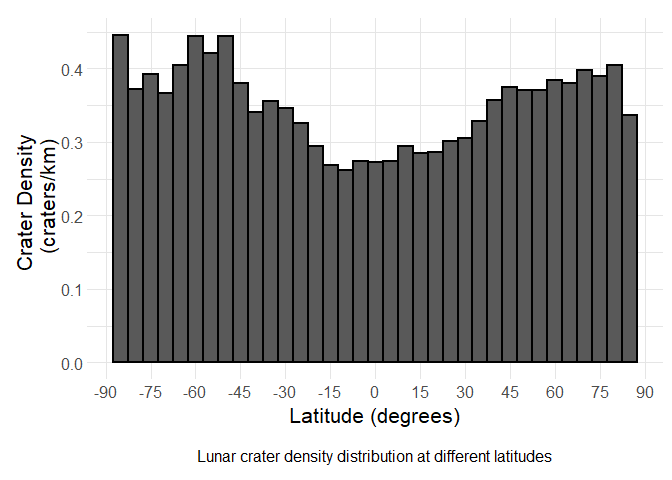
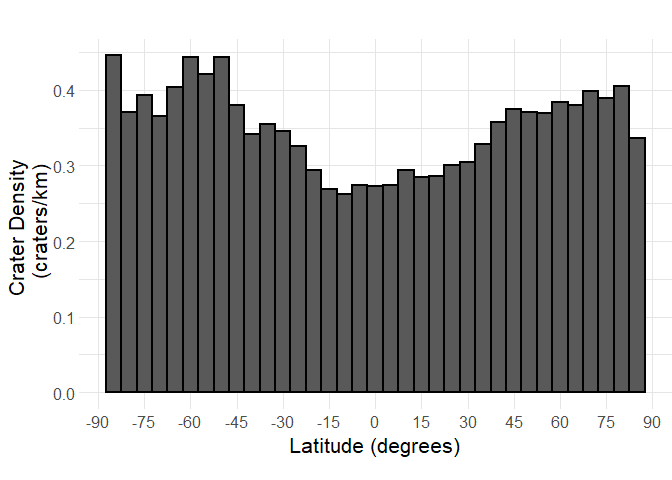
Removing one caption, fixing a typo

diff --git a/README.md b/README.md
@@ -131,7 +131,7 @@ df_craters <- read.csv("data/AstroStats_Robbins_Moon.csv") %>% # Load the datase
   ) %>% 
   mutate(
     intersection = geometry %>% st_intersects(map, sparse = TRUE),
-    # Interesection column is where each point intersects the map, if any
+    # Intersection column is where each point intersects the map, if any
     MARIA = (intersection %>% as.character()) != "integer(0)"
     # This is a bit chaotic. The intersection column is a funky object type, so
     # to compare it, I cast it to a character type. If the intersection is 0,
@@ -609,7 +609,7 @@ df_craters_hist %>%
   labs(
     x = "Latitude (degrees)",
     y = "Crater Density \n (craters/km)",
-    caption = "\n Lunar crater density distribution at different latitudes \n"
+    # caption = "\n Lunar crater density distribution at different latitudes \n"
   )
 ```
 
